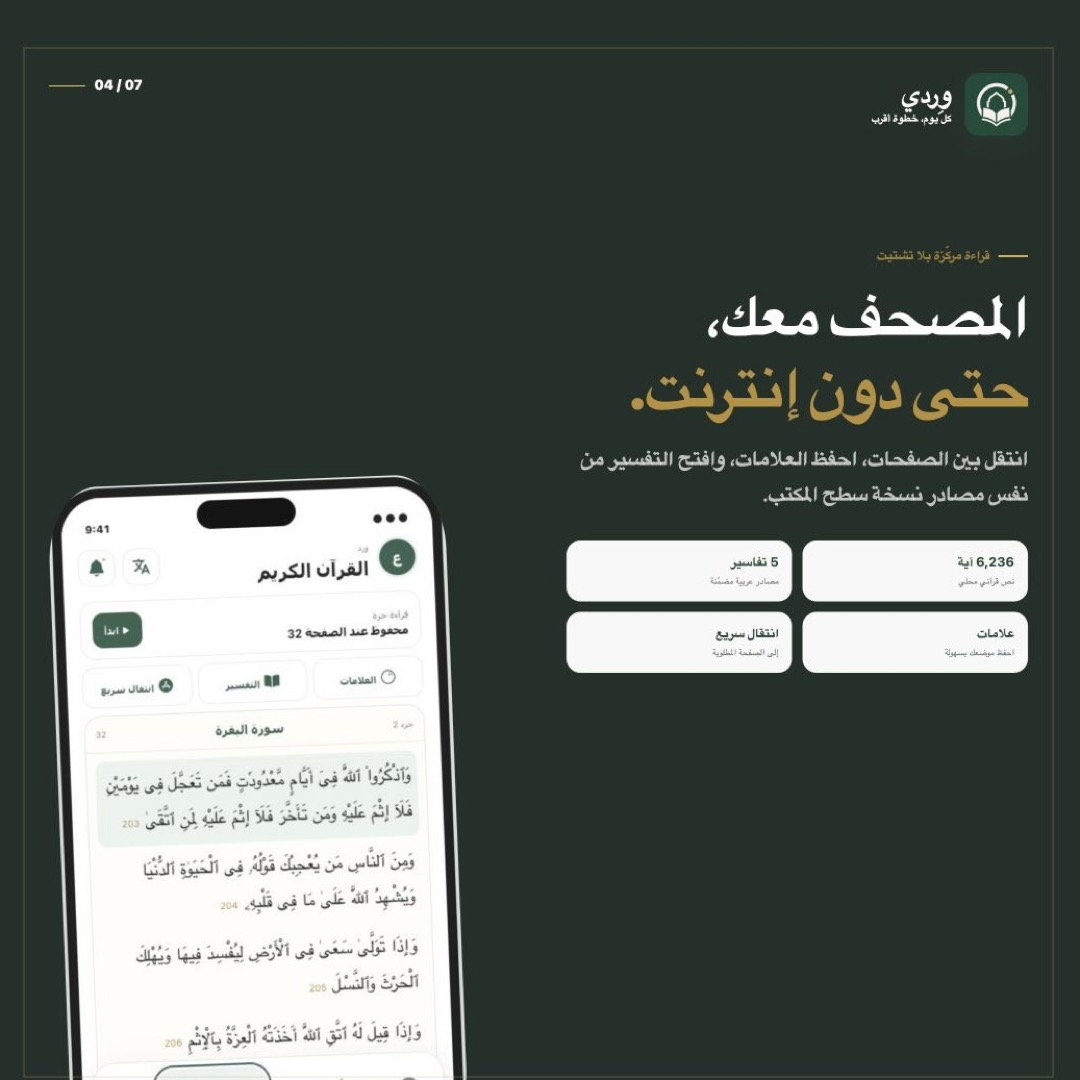
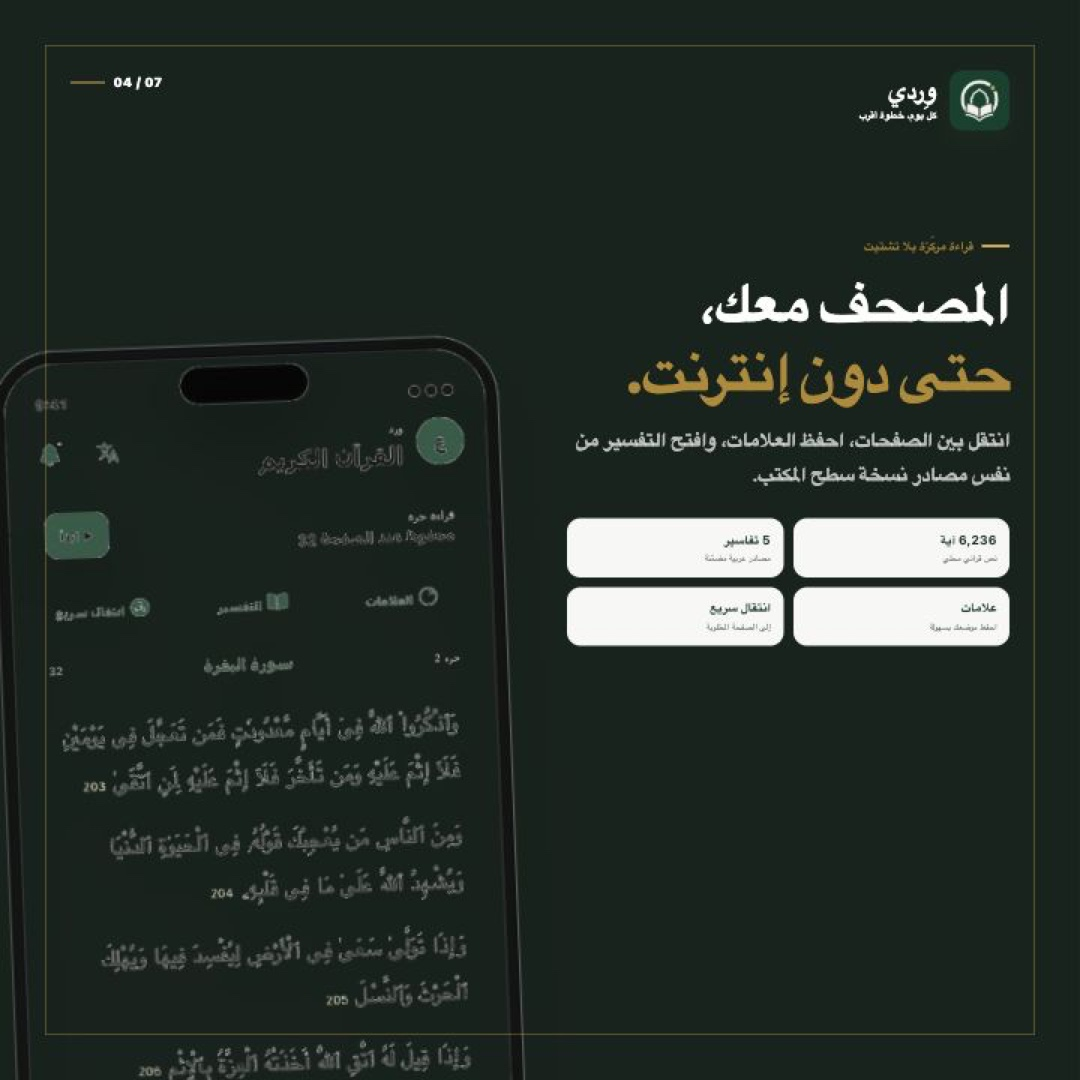
Enhance carousel phone previews

diff --git a/docs/carousel/index.html b/docs/carousel/index.html
@@ -34,10 +34,8 @@
     .pill-row{display:flex;flex-wrap:wrap;gap:.8cqw}
     .pill{display:flex;align-items:center;gap:.65cqw;min-height:3.5cqw;padding:0 1.25cqw;border:1px solid #dbe6e0;border-radius:99px;background:#fff;color:#175c43;font-size:1cqw;font-weight:850;box-shadow:0 .65cqw 1.5cqw rgba(28,73,53,.07)}
     .pill:before{content:"";width:.62cqw;height:.62cqw;border-radius:50%;background:#d5aa36}
-    .phone-shot{display:block;object-fit:contain;filter:drop-shadow(0 2.5cqw 2.6cqw rgba(18,52,37,.18))}
-    .device-legacy{clip-path:inset(6.3% 9.7% .8% 9.7% round 10%)}
-    .device-captured{clip-path:inset(7.9% 9.9% 3.8% 9.9% round 10%)}
-    .device-plan{clip-path:inset(7.9% 9.9% .8% 9.9% round 10%)}
+    .phone-shot{display:block;width:var(--phone-width,42cqw)!important;height:auto;object-fit:contain;filter:drop-shadow(0 2.5cqw 2.6cqw rgba(18,52,37,.2));image-rendering:auto}
+    .device-legacy,.device-captured,.device-plan{clip-path:none}
     .note{display:flex;align-items:center;gap:.75cqw;color:#52625a;font-size:1.05cqw;font-weight:800}
     .note:before{content:"";width:.8cqw;height:.8cqw;border-radius:50%;border:.25cqw solid #175c43}
     .line-art{position:absolute;border:1px solid rgba(23,92,67,.11);border-radius:50%;pointer-events:none}
@@ -51,7 +49,7 @@
     .cover h1{margin-top:1.3cqw}
     .cover .lead{width:50cqw;margin-top:2cqw}
     .cover .pill-row{margin-top:2.5cqw}
-    .cover .phone-shot{position:absolute;z-index:1;left:4cqw;bottom:-24cqw;width:40cqw;transform:rotate(-4deg)}
+    .cover .phone-shot{--phone-width:42cqw;position:absolute;z-index:1;left:2cqw;bottom:-27cqw;transform:rotate(-4deg)}
     .cover .open-source{position:absolute;right:6.5cqw;bottom:6.5cqw;padding:1.25cqw 1.6cqw;border:1px solid #cfdfd7;border-radius:1.3cqw;background:#eaf3ef;color:#175c43;font-size:1.05cqw;font-weight:900}
 
     .daily{background:#12523d;color:#fff}
@@ -62,7 +60,7 @@
     .daily .eyebrow{color:#e6c368}
     .daily h2{margin-top:1.3cqw}
     .daily .lead{margin-top:1.6cqw;color:rgba(255,255,255,.72)}
-    .daily .phone-shot{position:absolute;left:3.5cqw;bottom:-6cqw;width:45cqw;transform:rotate(-2deg);filter:drop-shadow(0 3cqw 3cqw rgba(0,0,0,.25))}
+    .daily .phone-shot{--phone-width:46cqw;position:absolute;left:1cqw;bottom:-12cqw;transform:rotate(-2deg);filter:drop-shadow(0 3cqw 3cqw rgba(0,0,0,.25))}
     .daily-grid{display:grid;grid-template-columns:1fr 1fr;gap:1cqw;margin-top:3cqw}
     .daily-grid div{padding:1.35cqw;border:1px solid rgba(255,255,255,.17);border-radius:1.4cqw;background:rgba(255,255,255,.08)}
     .daily-grid b{display:block;font-size:1.25cqw}
@@ -73,7 +71,7 @@
     .plan-copy{position:absolute;z-index:3;top:21cqw;right:6.5cqw;width:39cqw}
     .plan h2{margin-top:1.3cqw}
     .plan .lead{margin-top:1.5cqw}
-    .plan .phone-shot{position:absolute;left:1.5cqw;bottom:-3cqw;width:50cqw;transform:rotate(2deg)}
+    .plan .phone-shot{--phone-width:50cqw;position:absolute;left:0cqw;bottom:-12cqw;transform:rotate(2deg)}
     .plan-stack{display:grid;gap:1cqw;margin-top:2.6cqw}
     .plan-stack .feature-card{display:flex;align-items:center;gap:1.2cqw}
     .step-number{display:grid;width:3.5cqw;height:3.5cqw;flex:0 0 auto;place-items:center;border-radius:1.05cqw;background:#175c43;color:#fff;font-size:1.2cqw;font-weight:900}
@@ -85,7 +83,7 @@
     .reader-copy{position:absolute;z-index:3;top:22cqw;right:6.5cqw;width:41cqw}
     .reader h2{margin-top:1.3cqw}
     .reader .lead{margin-top:1.5cqw;color:rgba(255,255,255,.7)}
-    .reader .phone-shot{position:absolute;left:3cqw;bottom:-5cqw;width:44cqw;transform:rotate(-2.2deg);filter:drop-shadow(0 3cqw 3cqw rgba(0,0,0,.3))}
+    .reader .phone-shot{--phone-width:48cqw;position:absolute;left:0cqw;bottom:-12cqw;transform:rotate(-2.2deg);filter:drop-shadow(0 3cqw 3cqw rgba(0,0,0,.3))}
     .reader-tools{display:grid;grid-template-columns:1fr 1fr;gap:.9cqw;margin-top:2.6cqw}
     .reader-tools div{padding:1.2cqw;border-radius:1.25cqw;background:#f6f8f6;color:#173e2e}
     .reader-tools b{display:block;font-size:1.15cqw}
@@ -95,7 +93,7 @@
     .insights-copy{position:absolute;z-index:3;top:19.8cqw;right:6.5cqw;width:40cqw}
     .insights h2{margin-top:1.3cqw}
     .insights .lead{margin-top:1.5cqw}
-    .insights .phone-shot{position:absolute;left:2.5cqw;bottom:-5cqw;width:48cqw;transform:rotate(-1.5deg)}
+    .insights .phone-shot{--phone-width:49cqw;position:absolute;left:0cqw;bottom:-12cqw;transform:rotate(-1.5deg)}
     .stat-row{display:grid;grid-template-columns:repeat(3,1fr);gap:.8cqw;margin-top:2.6cqw}
     .stat{padding:1.2cqw .7cqw;border-radius:1.25cqw;background:#fff;text-align:center;box-shadow:0 .65cqw 1.6cqw rgba(28,73,53,.07)}
     .stat b{display:block;color:#175c43;font-size:2cqw;font-weight:950;direction:ltr}
@@ -108,7 +106,7 @@
     .together h2{margin-top:1.2cqw}
     .together .lead{margin:1cqw auto 0;width:58cqw}
     .phone-pair{position:absolute;left:50%;bottom:-26cqw;width:83cqw;height:82cqw;transform:translateX(-50%)}
-    .phone-pair img{position:absolute;width:42cqw}
+    .phone-pair img{--phone-width:42cqw;position:absolute}
     .phone-pair img:first-child{right:1cqw;top:2cqw;transform:rotate(4deg)}
     .phone-pair img:last-child{left:1cqw;top:0;transform:rotate(-4deg)}
     .together .tag{position:absolute;z-index:6;bottom:5cqw;right:6.5cqw;padding:1.15cqw 1.4cqw;border-radius:1.3cqw;background:#175c43;color:#fff;font-size:1cqw;font-weight:900;box-shadow:0 .8cqw 1.8cqw rgba(23,92,67,.22)}
@@ -117,8 +115,8 @@
     .privacy-copy{position:absolute;z-index:5;top:20.5cqw;right:6.5cqw;width:41cqw}
     .privacy h2{margin-top:1.3cqw}
     .privacy .lead{margin-top:1.5cqw}
-    .privacy .phone-light{position:absolute;left:15cqw;bottom:-18cqw;width:39cqw;transform:rotate(5deg)}
-    .privacy .phone-dark{position:absolute;left:-5cqw;bottom:-12cqw;width:38cqw;transform:rotate(-6deg);filter:drop-shadow(0 3cqw 3cqw rgba(0,0,0,.24))}
+    .privacy .phone-light{--phone-width:40cqw;position:absolute;left:13cqw;bottom:-8cqw;transform:rotate(5deg)}
+    .privacy .phone-dark{--phone-width:39cqw;position:absolute;left:-4cqw;bottom:-2cqw;transform:rotate(-6deg);filter:drop-shadow(0 3cqw 3cqw rgba(0,0,0,.24))}
     .privacy-list{display:grid;gap:.8cqw;margin-top:2.4cqw}
     .privacy-list div{display:flex;align-items:center;gap:.8cqw;color:#294238;font-size:1.05cqw;font-weight:820}
     .privacy-list div:before{content:"✓";display:grid;width:2cqw;height:2cqw;place-items:center;border-radius:50%;background:#e4f0ea;color:#175c43;font-size:1cqw;font-weight:950}
@@ -144,45 +142,45 @@
         <div class="brand"><img src="../../assets/wird-app-icon.png" alt=""><div class="brand-copy"><b>وِردي</b><span>كل يوم، خطوة أقرب</span></div></div><div class="counter">01 / 07</div>
         <div class="line-art one"></div><div class="line-art two"></div>
         <div class="cover-copy"><div class="eyebrow">رفيقك اليومي مع القرآن</div><h1><span class="green">وردك القرآني،</span><br><span class="gold">خطوة هادئة كل يوم.</span></h1><p class="lead">جلسات مرنة، مصحف محلي، وإحصاءات واضحة تساعدك على بناء عادة قراءة تستمر.</p><div class="pill-row"><span class="pill">جلسات مخصصة</span><span class="pill">قراءة بلا إنترنت</span><span class="pill">عربي وEnglish</span></div></div>
-        <img class="phone-shot device-legacy" src="../screenshots/home-dashboard.jpg" alt="شاشة ورد اليوم">
+        <img class="phone-shot device-legacy" src="../screenshots/iphone/home-dashboard.png" alt="شاشة ورد اليوم">
         <div class="open-source">مشروع مفتوح المصدر · بياناتك على جهازك</div>
       </section>
 
       <section class="slide daily" data-title="ورد اليوم">
         <div class="brand"><img src="../../assets/wird-app-icon.png" alt=""><div class="brand-copy"><b>وِردي</b><span>كل يوم، خطوة أقرب</span></div></div><div class="counter">02 / 07</div>
         <div class="daily-copy"><div class="eyebrow">واجهة تعرف ما تحتاجه الآن</div><h2>ابدأ يومك من<br><span class="gold">جلسة واضحة.</span></h2><p class="lead">الموعد القادم، موضع القراءة، تقدّم الختمة، وهدف اليوم في نظرة واحدة.</p><div class="daily-grid"><div><b>جلسة قادمة</b><span>موعد ومدة محددان</span></div><div><b>تقدّم دائري</b><span>النسبة والجزء الحالي</span></div><div><b>نشاط أسبوعي</b><span>دقائق كل يوم</span></div><div><b>متابعة فورية</b><span>من آخر صفحة</span></div></div></div>
-        <img class="phone-shot device-legacy" src="../screenshots/home-dashboard.jpg" alt="لوحة ورد اليوم"><div class="gold-line"></div>
+        <img class="phone-shot device-legacy" src="../screenshots/iphone/home-dashboard.png" alt="لوحة ورد اليوم"><div class="gold-line"></div>
       </section>
 
       <section class="slide plan" data-title="خطة مرنة">
         <div class="brand"><img src="../../assets/wird-app-icon.png" alt=""><div class="brand-copy"><b>وِردي</b><span>كل يوم، خطوة أقرب</span></div></div><div class="counter">03 / 07</div>
         <div class="plan-copy"><div class="eyebrow">خطتك تتكيّف مع يومك</div><h2><span class="green">خطتك،</span><br><span class="gold">على وقتك.</span></h2><p class="lead">أنشئ من جلسة إلى خمس جلسات يومية، وحدد وقت كل جلسة ومدتها ونقطة البداية.</p><div class="plan-stack"><div class="feature-card"><span class="step-number">1</span><div><strong>اختر الموعد</strong><span>صباحًا، مساءً، أو بينهما</span></div></div><div class="feature-card"><span class="step-number">2</span><div><strong>حدّد المدة</strong><span>جلسة قصيرة تناسب جدولك</span></div></div><div class="feature-card"><span class="step-number">3</span><div><strong>تابع من موضعك</strong><span>من الصفحة التي توقفت عندها</span></div></div></div></div>
-        <img class="phone-shot device-plan" src="../screenshots/plan.jpg" alt="إدارة خطة الورد">
+        <img class="phone-shot device-plan" src="../screenshots/iphone/plan.png" alt="إدارة خطة الورد">
       </section>
 
       <section class="slide reader" data-title="المصحف المحلي">
         <div class="brand"><img src="../../assets/wird-app-icon.png" alt=""><div class="brand-copy"><b>وِردي</b><span>كل يوم، خطوة أقرب</span></div></div><div class="counter">04 / 07</div>
         <div class="reader-copy"><div class="eyebrow">قراءة مركّزة بلا تشتيت</div><h2>المصحف معك،<br><span class="gold">حتى دون إنترنت.</span></h2><p class="lead">انتقل بين الصفحات، احفظ العلامات، وافتح التفسير من نفس مصادر نسخة سطح المكتب.</p><div class="reader-tools"><div><b>6,236 آية</b><span>نص قرآني محلي</span></div><div><b>5 تفاسير</b><span>مصادر عربية مضمّنة</span></div><div><b>علامات</b><span>احفظ موضعك بسهولة</span></div><div><b>انتقال سريع</b><span>إلى الصفحة المطلوبة</span></div></div></div>
-        <img class="phone-shot device-captured" src="../screenshots/reader.jpg" alt="قارئ القرآن الكريم">
+        <img class="phone-shot device-captured" src="../screenshots/iphone/reader.png" alt="قارئ القرآن الكريم">
       </section>
 
       <section class="slide insights" data-title="إحصاءات القراءة">
         <div class="brand"><img src="../../assets/wird-app-icon.png" alt=""><div class="brand-copy"><b>وِردي</b><span>كل يوم، خطوة أقرب</span></div></div><div class="counter">05 / 07</div>
         <div class="insights-copy"><div class="eyebrow">تقدّم مفهوم ومحفّز</div><h2><span class="green">تقدّم تراه.</span><br><span class="gold">عادة تبنيها.</span></h2><p class="lead">تابع وقت القراءة والصفحات والأيام النشطة، واستكشف دقائق كل يوم من الرسم التفاعلي.</p><div class="stat-row"><div class="stat"><b>42</b><span>صفحة</span></div><div class="stat"><b>18</b><span>دقيقة</span></div><div class="stat"><b>7</b><span>أيام قراءة</span></div></div></div>
-        <img class="phone-shot device-captured" src="../screenshots/statistics.jpg" alt="إحصاءات القراءة">
+        <img class="phone-shot device-captured" src="../screenshots/iphone/statistics.png" alt="إحصاءات القراءة">
       </section>
 
       <section class="slide together" data-title="الختمات الجماعية">
         <div class="brand"><img src="../../assets/wird-app-icon.png" alt=""><div class="brand-copy"><b>وِردي</b><span>كل يوم، خطوة أقرب</span></div></div><div class="counter">06 / 07</div>
         <div class="together-head"><div class="eyebrow">مع من تحب</div><h2><span class="green">اختموا القرآن</span> <span class="gold">معًا.</span></h2><p class="lead">أنشئ ختمة، شارك رمز الدعوة، وتابع إنجاز الأجزاء الثلاثين مع أفراد العائلة والأصدقاء.</p></div>
-        <div class="phone-pair"><img class="phone-shot device-legacy" src="../screenshots/khatamat-groups.jpg" alt="مجموعات الختمات"><img class="phone-shot device-legacy" src="../screenshots/khatma-detail.jpg" alt="تقدم الختمة الجماعية"></div>
+        <div class="phone-pair"><img class="phone-shot device-legacy" src="../screenshots/iphone/khatamat-groups.png" alt="مجموعات الختمات"><img class="phone-shot device-legacy" src="../screenshots/iphone/khatma-detail.png" alt="تقدم الختمة الجماعية"></div>
         <div class="tag">دعوات · أعضاء · 30 جزءًا · تقدّم جماعي</div>
       </section>
 
       <section class="slide privacy" data-title="الخصوصية والمظهر">
         <div class="brand"><img src="../../assets/wird-app-icon.png" alt=""><div class="brand-copy"><b>وِردي</b><span>كل يوم، خطوة أقرب</span></div></div><div class="counter">07 / 07</div>
         <div class="privacy-copy"><div class="eyebrow">مصمم لراحتك وخصوصيتك</div><h2><span class="green">تجربة تحترمك.</span><br><span class="gold">وبيانات تبقى لك.</span></h2><p class="lead">واجهة عربية وإنجليزية، مظهر يتبع نظام جهازك، وتخزين محلي دون حساب سحابي إلزامي.</p><div class="privacy-list"><div>فاتح، داكن، أو تلقائي</div><div>SQLite وSecureStore على الجهاز</div><div>نسخ احتياطي واستعادة باختيارك</div><div>لا إعلانات ولا تحليلات ولا تتبّع</div></div></div>
-        <img class="phone-shot device-captured phone-light" src="../screenshots/settings.jpg" alt="إعدادات المظهر"><img class="phone-shot device-captured phone-dark" src="../screenshots/home-dark.jpg" alt="المظهر الداكن">
+        <img class="phone-shot device-captured phone-light" src="../screenshots/iphone/settings.png" alt="إعدادات المظهر"><img class="phone-shot device-captured phone-dark" src="../screenshots/iphone/home-dark.png" alt="المظهر الداكن">
         <div class="oss">مبني على مشروع Wird المفتوح المصدر · MIT</div>
       </section>
     </main>

diff --git a/README.md b/README.md
@@ -49,9 +49,9 @@ explicitly exports a backup.
     <td align="center"><strong>Recurring Plan</strong></td>
   </tr>
   <tr>
-    <td><img src="docs/screenshots/home-dashboard.jpg" alt="Wirdy Arabic home dashboard with daily reading progress" /></td>
-    <td><img src="docs/screenshots/reader.jpg" alt="Wirdy local Quran reader with bookmarks and Tafsir tools" /></td>
-    <td><img src="docs/screenshots/plan.jpg" alt="Wirdy recurring reading plan management" /></td>
+    <td align="center" width="33%"><img src="docs/screenshots/iphone/home-dashboard.png" width="250" alt="Wirdy Arabic home dashboard with daily reading progress" /></td>
+    <td align="center" width="33%"><img src="docs/screenshots/iphone/reader.png" width="250" alt="Wirdy local Quran reader with bookmarks and Tafsir tools" /></td>
+    <td align="center" width="33%"><img src="docs/screenshots/iphone/plan.png" width="250" alt="Wirdy recurring reading plan management" /></td>
   </tr>
   <tr>
     <td align="center">Next session, daily goal, Khatma progress, and weekly rhythm</td>
@@ -69,9 +69,9 @@ explicitly exports a backup.
     <td align="center"><strong>Group Progress</strong></td>
   </tr>
   <tr>
-    <td><img src="docs/screenshots/statistics.jpg" alt="Wirdy animated reading statistics and weekly activity" /></td>
-    <td><img src="docs/screenshots/khatamat-groups.jpg" alt="Wirdy collaborative Khatamat list on iPhone" /></td>
-    <td><img src="docs/screenshots/khatma-detail.jpg" alt="Wirdy Khatma group detail and progress on iPhone" /></td>
+    <td align="center" width="33%"><img src="docs/screenshots/iphone/statistics.png" width="250" alt="Wirdy animated reading statistics and weekly activity" /></td>
+    <td align="center" width="33%"><img src="docs/screenshots/iphone/khatamat-groups.png" width="250" alt="Wirdy collaborative Khatamat list on iPhone" /></td>
+    <td align="center" width="33%"><img src="docs/screenshots/iphone/khatma-detail.png" width="250" alt="Wirdy Khatma group detail and progress on iPhone" /></td>
   </tr>
   <tr>
     <td align="center">Reading time, pages, active days, and interactive charts</td>
@@ -88,8 +88,8 @@ explicitly exports a backup.
     <td align="center"><strong>Dark Appearance</strong></td>
   </tr>
   <tr>
-    <td><img src="docs/screenshots/settings.jpg" alt="Wirdy reading and appearance settings" /></td>
-    <td><img src="docs/screenshots/home-dark.jpg" alt="Wirdy home dashboard in dark appearance" /></td>
+    <td align="center" width="50%"><img src="docs/screenshots/iphone/settings.png" width="250" alt="Wirdy reading and appearance settings" /></td>
+    <td align="center" width="50%"><img src="docs/screenshots/iphone/home-dark.png" width="250" alt="Wirdy home dashboard in dark appearance" /></td>
   </tr>
   <tr>
     <td align="center">System, Light, and Dark modes with reader controls</td>
